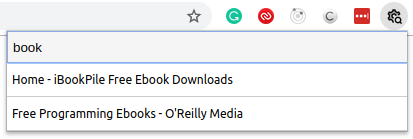
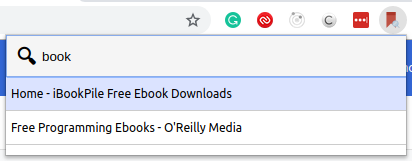
1.0

diff --git a/src/App.js b/src/App.js
@@ -40,14 +40,12 @@ class App extends React.Component {
     const { keyCode } = event;
 
     if (keyCode === this.UP_KEY && cursor > 0) {
-      this.setState(prevState => ({
-        ...prevState,
-        cursor: prevState.cursor - 1
+      this.setState(currentState => ({
+        cursor: currentState.cursor - 1
       }));
     } else if (keyCode === this.DOWN_KEY && cursor < resultList.length - 1) {
-      this.setState(prevState => ({
-        ...prevState,
-        cursor: prevState.cursor + 1
+      this.setState(currentState => ({
+        cursor: currentState.cursor + 1
       }));
     } else if (keyCode === this.ENTER_KEY && cursor < resultList.length) {
       const url = resultList[cursor].url;
@@ -61,6 +59,7 @@ class App extends React.Component {
 
     return (
       <div className="App">
+        <span className="icon" role="img" aria-label="Search icon">🔍</span>
         <input  type="text"
                 name="search"
                 placeholder="Start typing to start searching for your bookmark..."

diff --git a/src/App.css b/src/App.css
@@ -1,5 +1,19 @@
 .App {
   width: 400px;
+  margin-bottom: 10px;
+}
+
+.App span.icon {
+  position: absolute;
+}
+
+.icon {
+  padding: 8px;
+  color: black;
+  min-width: 25px;
+  text-align: center;
+  font-size: 20px;
+  font-weight: bold;
 }
 
 input {
@@ -7,7 +21,7 @@ input {
   height: 20px;
   border: 1px solid #c6c8d8;
   background-color: #f5f5f5;
-  padding: 5px;
+  padding: 10px 10px 10px 35px;
 }
 
 .list-item {

diff --git a/README.md b/README.md
@@ -3,16 +3,16 @@ This is a Chrome extension to search and open bookmarks in a quick way. People w
 # How it looks like
 ![Image of the Extension](./public/images/extension.png)
 
-# Installation
-Make sure you have installed:
-  - Node 10+
-  - Yarn
+# Keyboard Interaction
+You can open it at any time by firing `CTRL+SHIFT+F`. (or `COMMAND+SHIFT+F` on Mac)
+You can navigate between options with `Arrow Up` and `Arrow Down`.
+And you can open the bookmark by pressing `Enter`.
 
-Then
-1. Clone this repository
-2. Change directory to the root folder
-3. run `yarn build`
-4. At this point you're going to have a build folder, this is the extension's files
-5. Open the Extension Management page by navigating to chrome://extensions.
-6. Enable Developer Mode by clicking the toggle switch next to Developer mode.
-7. Click the LOAD UNPACKED button and select the extension directory from step 4.
+# Installation
+You can clone this repository and build it by yourself or You can download the latest version here:
+
+[Latest version](/ramonpm/go-to-bookmark/releases/latest/download/go-to-bookmark.zip)
+
+1. Open the Extension Management page by navigating to chrome://extensions.
+2. Enable Developer Mode by clicking the toggle switch next to Developer mode.
+3. Click the LOAD UNPACKED button and select the extension directory from step 4.
